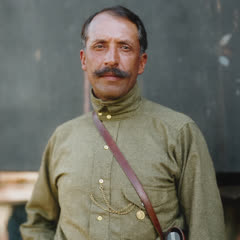
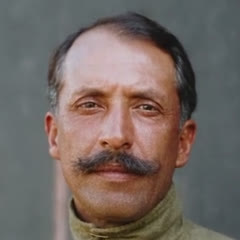
feat: approved general profile text and the Villa and Natera portraits
Fill generals.ts with the approved content (ranges, no ammunition row, no
placeholders); list the Natera clip; add posters and button thumbnails for
Villa and Natera and refresh Angeles. The portrait mp4 files are git-ignored
like the films and are served from R2.

diff --git a/src/profiles/generals.ts b/src/profiles/generals.ts
@@ -10,64 +10,108 @@ export type General = {
   name: string
   role: Bilingual
   years: string
-  army: Stat[] // differs per general: men, artillery or cavalry, ammunition...
+  army: Stat[] // differs per general: men, artillery or cavalry, command...
   skills: Bilingual[]
   part: Bilingual // his part at Zacatecas, tied to what the map shows
   facts: Bilingual[]
 }
 
 /**
- * What the profile panels say. Data only. Every number and sentence below is still 'TODO': the text is researched separately (against
- * `Research/La Batalla de Zacatecas (1914).md` and primary sources) and goes in here with its sources in comments. Nothing historical is
- * written from memory, no quotations, no archive text. The army rows' labels are structure only (which rows a general has is to be
- * confirmed with the figures).
+ * What the profile panels say. Data only. The text is the approved `Research/General_Profiles_Content.md` (2026-10-29), where every
+ * line carries its sources and a confidence tag. There is no ammunition row on purpose: no source gives an honest figure. Rows whose
+ * figure does not exist (Ángeles's men, Natera's cavalry, the Dorados' headcount) are left out, not guessed. No quotations, no archive text.
  */
-const TODO: Bilingual = { es: 'TODO', en: 'TODO' }
-const men: Bilingual = { es: 'Hombres', en: 'Men' }
-const ammunition: Bilingual = { es: 'Municiones', en: 'Ammunition' }
-
 export const GENERALS: readonly General[] = [
   {
     id: 'angeles',
     name: 'Felipe Ángeles',
-    role: TODO,
-    years: 'TODO',
+    role: { es: 'Jefe de artillería de la División del Norte', en: 'Chief of artillery, Division of the North' },
+    years: '1868 – 1919',
     army: [
-      { label: men, value: TODO },
-      { label: { es: 'Artillería', en: 'Artillery' }, value: TODO },
-      { label: ammunition, value: TODO },
+      { label: { es: 'Artillería', en: 'Artillery' }, value: { es: '~29 piezas (las fuentes dan de 13 a 40)', en: '~29 guns (sources give 13 to 40)' } },
+      { label: { es: 'Mando', en: 'Command' }, value: { es: 'Toda la artillería de la División del Norte', en: 'All the artillery of the Division of the North' } },
     ],
-    skills: [TODO, TODO, TODO],
-    part: TODO,
-    facts: [TODO, TODO],
+    skills: [
+      {
+        es: 'Artillero de formación: ingresó al Colegio Militar a los 14 años y perfeccionó el cañón francés de 75 mm en Francia.',
+        en: 'Trained artilleryman: entered the Military Academy at 14 and perfected the French 75 in France.',
+      },
+      { es: 'Matemático: enseñó matemáticas, mecánica analítica y balística.', en: 'Mathematician: taught mathematics, analytical mechanics and ballistics.' },
+      { es: 'Estratega: coordinó la infantería y la artillería sobre todas las alturas a la vez.', en: 'Strategist: coordinated infantry and artillery on all the heights at once.' },
+    ],
+    part: {
+      es: 'La noche anterior sacó los cañones de sus posiciones y los puso, ocultos, muy cerca de las defensas federales. A las 10:00 del 23 de junio un solo cañonazo abrió la batalla; hacia las 4 de la tarde se informó que a los federales se les había acabado la munición de artillería. Al caer la tarde mandó detener los fusilamientos de prisioneros.',
+      en: 'The night before, he pulled his guns out of their positions and hid them very close to the federal defences. At 10:00 on 23 June a single shot opened the battle; by about 4 p.m. the federal artillery was reported out of ammunition. At dusk he ordered the executions of prisoners stopped.',
+    },
+    facts: [
+      { es: 'Nació el 13 de junio de 1868 en Zacualtipán, Hidalgo.', en: 'Born 13 June 1868 in Zacualtipán, Hidalgo.' },
+      {
+        es: 'Fue director del Colegio Militar con Madero y estuvo preso con él en la Decena Trágica (febrero de 1913).',
+        en: 'Director of the Military Academy under Madero; arrested with him in the Decena Trágica (February 1913).',
+      },
+      {
+        es: 'Fue juzgado por un consejo de guerra en Chihuahua y fusilado el 26 de noviembre de 1919.',
+        en: 'Court-martialled in Chihuahua and shot on 26 November 1919.',
+      },
+    ],
   },
   {
     id: 'villa',
     name: 'Pancho Villa',
-    role: TODO,
-    years: 'TODO',
+    role: { es: 'Comandante de la División del Norte', en: 'Commander, Division of the North' },
+    years: '1878 – 1923',
     army: [
-      { label: men, value: TODO },
-      { label: { es: 'Caballería', en: 'Cavalry' }, value: TODO },
-      { label: ammunition, value: TODO },
+      { label: { es: 'Hombres', en: 'Men' }, value: { es: '~20,000–25,000', en: '~20,000–25,000' } },
+      { label: { es: 'Arma principal', en: 'Main arm' }, value: { es: 'Caballería, con cargas contra El Grillo', en: 'Cavalry, charging El Grillo' } },
+      {
+        label: { es: 'Apoyo', en: 'Support' },
+        value: { es: 'Trenes y carros de sanidad, con médicos mexicanos y extranjeros', en: 'Railway hospital cars, with Mexican and foreign doctors' },
+      },
     ],
-    skills: [TODO, TODO, TODO],
-    part: TODO,
-    facts: [TODO, TODO],
+    skills: [
+      { es: 'Jinete y jefe de caballería: lideró cargas contra El Grillo.', en: 'Rider and cavalry leader: led charges at El Grillo.' },
+      { es: 'Mueve ejércitos por ferrocarril: trenes de tropa, de artillería y de hospital.', en: 'Moves armies by rail: troop, artillery and hospital trains.' },
+      { es: 'Carisma y osadía: atacó Zacatecas desobedeciendo a Carranza.', en: 'Charisma and daring: attacked Zacatecas against Carranza’s orders.' },
+    ],
+    part: {
+      es: 'Carranza le ordenó ir a Saltillo y ceder 5,000 hombres a Natera; Villa avanzó con toda la División sobre Zacatecas. Llegó el 22 de junio y el 23 encabezó los asaltos de caballería sobre El Grillo mientras la artillería de Ángeles abría el camino. La victoria destruyó al ejército federal y lo separó de Carranza.',
+      en: 'Carranza ordered him to Saltillo and to hand 5,000 men to Natera; Villa marched the whole Division on Zacatecas instead. He arrived on 22 June and on the 23rd led the cavalry assaults on El Grillo while Ángeles’s guns opened the way. The victory destroyed the federal army and split him from Carranza.',
+    },
+    facts: [
+      {
+        es: 'Nació José Doroteo Arango Arámbula el 5 de junio de 1878 en La Coyotada, Durango; lo llamaron «el Centauro del Norte».',
+        en: 'Born José Doroteo Arango Arámbula on 5 June 1878 in La Coyotada, Durango; called “the Centaur of the North”.',
+      },
+      {
+        es: 'Fue gobernador de Chihuahua (1913–14) e imprimió su propio papel moneda.',
+        en: 'Governor of Chihuahua in 1913–14; he printed his own banknotes.',
+      },
+      { es: 'Murió emboscado en Parral el 20 de julio de 1923.', en: 'Killed in an ambush in Parral on 20 July 1923.' },
+    ],
   },
   {
     id: 'natera',
     name: 'Pánfilo Natera',
-    role: TODO,
-    years: 'TODO',
+    role: { es: 'General constitucionalista, División del Centro', en: 'Constitutionalist general, Division of the Centre' },
+    years: '1882 – 1951',
     army: [
-      { label: men, value: TODO },
-      { label: { es: 'Caballería', en: 'Cavalry' }, value: TODO },
-      { label: ammunition, value: TODO },
+      { label: { es: 'Mando', en: 'Command' }, value: { es: 'División del Centro', en: 'Division of the Centre' } },
+      { label: { es: 'Hombres', en: 'Men' }, value: { es: '~6,000 (junto con los hermanos Arrieta)', en: '~6,000 (together with the Arrieta brothers)' } },
     ],
-    skills: [TODO, TODO, TODO],
-    part: TODO,
-    facts: [TODO, TODO],
+    skills: [
+      { es: 'Organizó una fuerza propia desde cero: se alzó con unos 70 rurales.', en: 'Built a force from nothing: rose with about 70 rurales.' },
+      { es: 'Jefe zacatecano de la causa constitucionalista en su propio estado.', en: 'Zacatecan leader of the Constitutionalist cause in his own state.' },
+      { es: 'Tenaz: volvió sobre Zacatecas y participó en la victoria de junio.', en: 'Persistent: came back to Zacatecas and shared in the June victory.' },
+    ],
+    part: {
+      es: 'Carranza lo eligió para tomar Zacatecas antes que a Villa. Atacó con los Arrieta entre el 12 y el 14 de junio y Medina Barrón, ya reforzado, lo rechazó; Villa no le mandó la artillería ni la ayuda que pidió. El 23 de junio volvió a atacar junto a Villa y Urbina y, tras la victoria, fue comandante militar y gobernador provisional del estado.',
+      en: 'Carranza chose him, not Villa, to take Zacatecas. He attacked with the Arrieta brothers on 12–14 June and Medina Barrón, by then reinforced, threw him back; Villa did not send the artillery and help he asked for. On 23 June he attacked again alongside Villa and Urbina and, after the victory, he was military commander and provisional governor of the state.',
+    },
+    facts: [
+      { es: 'Campesino sin escuela, se unió a Madero en 1910.', en: 'A peasant with no schooling, he joined Madero in 1910.' },
+      { es: 'Fue gobernador de Zacatecas de 1940 a 1944.', en: 'Governor of Zacatecas from 1940 to 1944.' },
+      { es: 'Un municipio de Zacatecas lleva su nombre: General Pánfilo Natera.', en: 'A Zacatecas municipality bears his name: General Pánfilo Natera.' },
+    ],
   },
 ]
 

diff --git a/src/profiles/portraits.test.ts b/src/profiles/portraits.test.ts
@@ -3,15 +3,20 @@ import { VIDEO_SOURCES } from '../video/videos'
 import { PORTRAIT_FILES, portraitOf } from './portraits'
 
 describe('the portrait files', () => {
-  it('have no entry for a general whose clip does not exist yet', () => {
-    expect(portraitOf('villa')).toBeUndefined()
-    expect(portraitOf('natera')).toBeUndefined()
+  it('list a clip for each of the three generals', () => {
+    expect(portraitOf('angeles')?.src).toBe('videos/angeles-portrait.mp4')
+    expect(portraitOf('villa')?.src).toBe('videos/villa-portrait.mp4')
+    expect(portraitOf('natera')?.src).toBe('videos/natera-portrait.mp4')
   })
 
-  it('point into videos/ and never share an id with a timeline film', () => {
-    for (const [id, file] of Object.entries(PORTRAIT_FILES)) {
-      expect(Object.hasOwn(VIDEO_SOURCES, id)).toBe(false)
-      for (const path of [file.src, file.poster, file.thumb]) if (path) expect(path).toMatch(/^videos\/[a-z-]+\.(mp4|jpg)$/)
+  it('point into videos/ and never reuse a timeline film file (a general may share a name with a film, e.g. natera)', () => {
+    const films = new Set(Object.values(VIDEO_SOURCES).flatMap((s) => [s.src, s.poster]))
+    for (const file of Object.values(PORTRAIT_FILES)) {
+      for (const path of [file.src, file.poster, file.thumb]) {
+        if (!path) continue
+        expect(path).toMatch(/^videos\/[a-z-]+\.(mp4|jpg)$/)
+        expect(films.has(path)).toBe(false)
+      }
     }
   })
 })

diff --git a/src/profiles/generals.test.ts b/src/profiles/generals.test.ts
@@ -22,16 +22,17 @@ describe('the three generals', () => {
     }
   })
 
-  // Until the researched text is supplied nothing historical may be written from memory: delete this test when the real data lands.
-  it('hold no history yet: every value, role, year, skill, part and fact is TODO', () => {
-    const todo = { es: 'TODO', en: 'TODO' }
+  it('hold the approved text: no placeholder left, every line in both languages, no ammunition row', () => {
     for (const g of GENERALS) {
-      expect(g.role).toEqual(todo)
-      expect(g.years).toBe('TODO')
-      expect(g.part).toEqual(todo)
-      for (const row of g.army) expect(row.value).toEqual(todo)
-      for (const s of g.skills) expect(s).toEqual(todo)
-      for (const f of g.facts) expect(f).toEqual(todo)
+      const lines = [g.role, g.part, ...g.army.flatMap((r) => [r.label, r.value]), ...g.skills, ...g.facts]
+      for (const line of lines) {
+        expect(line.es.trim()).not.toBe('')
+        expect(line.en.trim()).not.toBe('')
+        expect(line.es).not.toMatch(/TODO/)
+        expect(line.en).not.toMatch(/TODO/)
+      }
+      expect(g.years).toMatch(/^\d{4} – \d{4}$/)
+      expect(g.army.some((r) => /munici|ammunition/i.test(r.label.es + r.label.en))).toBe(false)
     }
   })
 })

diff --git a/src/profiles/portraits.ts b/src/profiles/portraits.ts
@@ -10,6 +10,8 @@ export type PortraitFile = { src?: string; poster?: string; thumb?: string }
 
 export const PORTRAIT_FILES: Partial<Record<GeneralId, PortraitFile>> = {
   angeles: { src: 'videos/angeles-portrait.mp4', poster: 'videos/angeles-portrait.jpg', thumb: 'videos/angeles-thumb.jpg' },
+  villa: { src: 'videos/villa-portrait.mp4', poster: 'videos/villa-portrait.jpg', thumb: 'videos/villa-thumb.jpg' },
+  natera: { src: 'videos/natera-portrait.mp4', poster: 'videos/natera-portrait.jpg', thumb: 'videos/natera-thumb.jpg' },
 }
 
 export const portraitOf = (id: GeneralId): PortraitFile | undefined => PORTRAIT_FILES[id]
